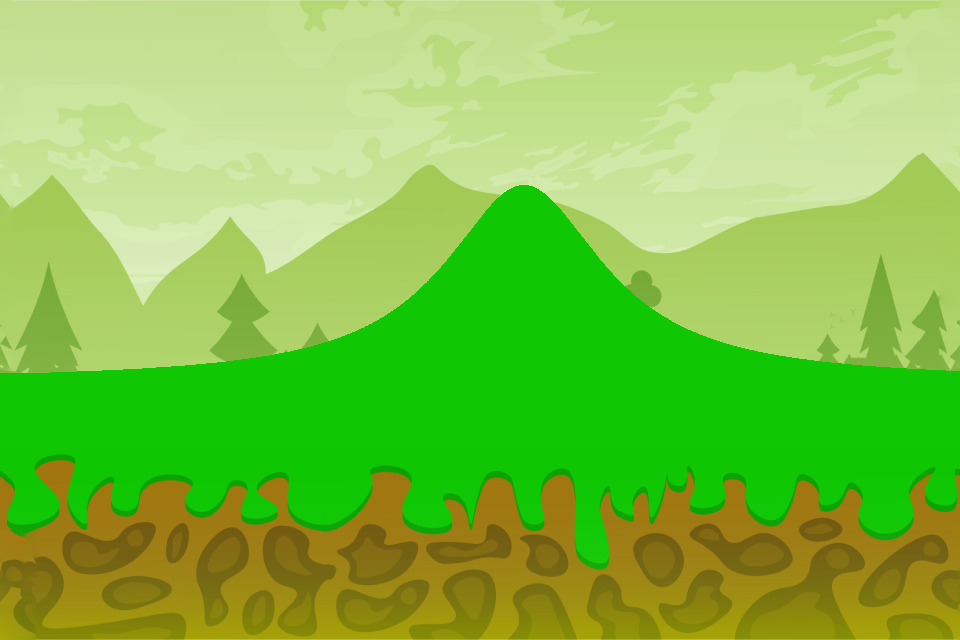
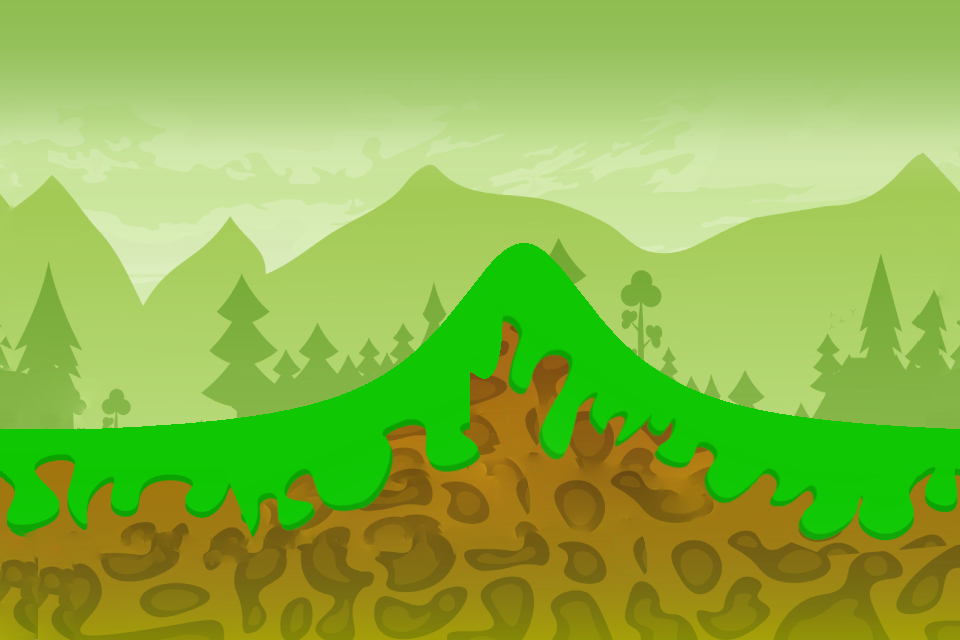
akash

diff --git a/Game.cpp b/Game.cpp
@@ -39,7 +39,7 @@ Mix_Music *bgm;
 Mix_Chunk *engine;
 Mix_Chunk *coinSound;
 
-int groundLevel = 350;
+int groundLevel = 400;
 int currentScore;
 // int currentFuel = 100;
 int x, y;
@@ -67,8 +67,7 @@ auto &musicButton(manager.addEntity());
 auto &leaderboard(manager.addEntity());
 auto &lbutton(manager.addEntity());
 auto &sky(manager.addEntity());
-auto &skyy(manager.addEntity());
-
+// 
 Entity *coin[10];
 enum groupLabels : size_t
 {
@@ -157,16 +156,12 @@ void Game::init(const char *title, int xpos, int ypos, int width, int height, bo
     bgg.addGroup(groupSlide);
     bgg.addGroup(groupBg);
 
-    sky.addComponent<TransformComponent>(0, -640 + 151, 960, 640, 1);
+    sky.addComponent<TransformComponent>(0, -1920 + 250, 1920, 1920, 1);
     sky.addComponent<SpriteComponent>("assets/sky.png");
-    sky.addGroup(groupMap);
-    sky.addGroup(groupBg);
-    sky.addGroup(groupSlide);
-    skyy.addComponent<TransformComponent>(0, -640 + 151, 960, 640, 1);
-    // skyy.addComponent<SpriteComponent>("assets/sky.png");
-    skyy.addGroup(groupMap);
-    skyy.addGroup(groupBg);
-    // skyy.addGroup(groupSlide);
+    // sky.addGroup(groupMap);
+    // sky.addGroup(groupBg);
+    // sky.addComponent<KeyboardController>(bg.getComponent<TransformComponent>());
+    // sky.addGroup(groupSlide);
 
     leaderboard.addComponent<TransformComponent>(0, 0, 960, 640, 1);
     leaderboard.addComponent<SpriteComponent>("assets/leaderboard.png");
@@ -343,14 +338,12 @@ void Game::update()
         bg.getComponent<TransformComponent>().position.x = 0;
         bgg.getComponent<TransformComponent>().position.x = 960;
         sky.getComponent<TransformComponent>().position.x = 0;
-        skyy.getComponent<TransformComponent>().position.x = 960;
     }
     else if (bgg.getComponent<TransformComponent>().position.x > 960)
     {
         bg.getComponent<TransformComponent>().position.x = -960;
         bgg.getComponent<TransformComponent>().position.x = 0;
         sky.getComponent<TransformComponent>().position.x = -960;
-        skyy.getComponent<TransformComponent>().position.x = 0;
     }
 
     // cout<<bg.getComponent<TransformComponent>().position.x<<endl;
@@ -416,7 +409,7 @@ void Game::render()
     }
     else
     {
-        // sky.draw();
+        sky.draw();
         src.x = src.y = 0;
         dest.x = 85;
         dest.y = 15;
